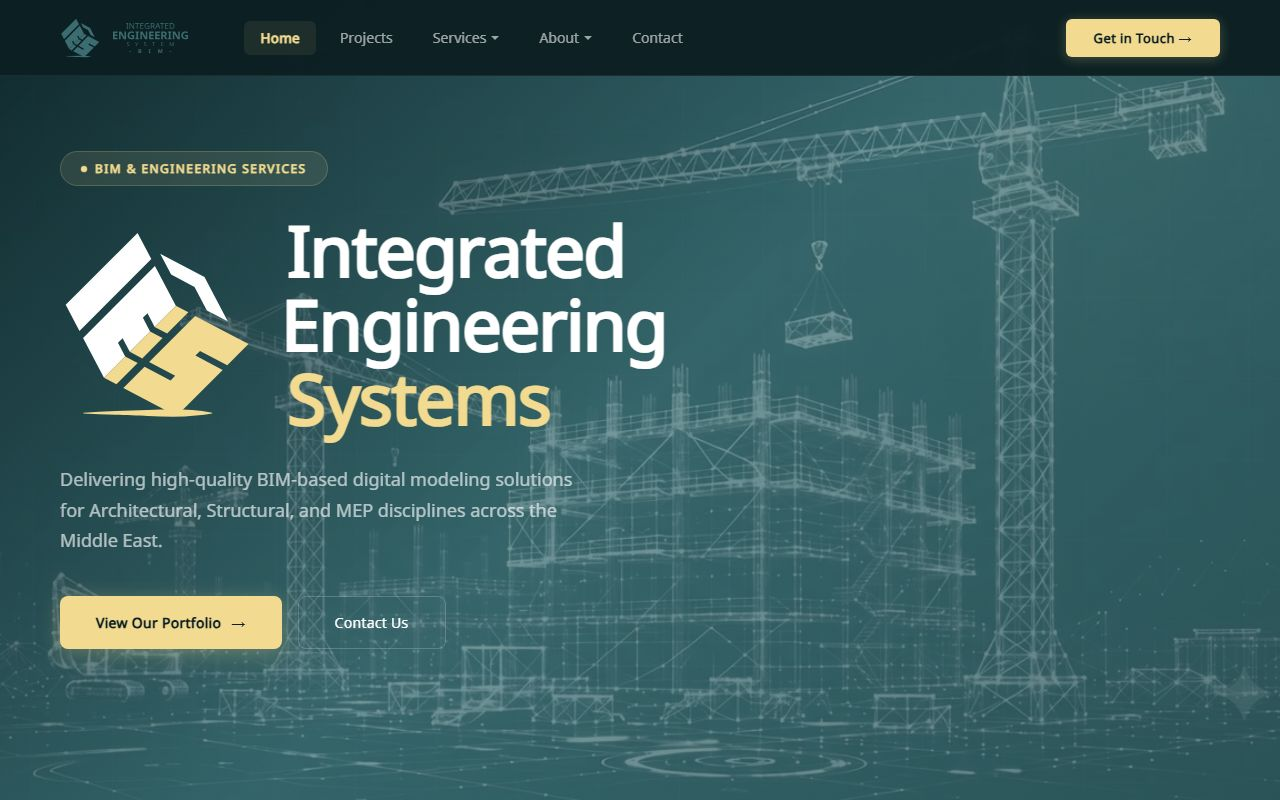
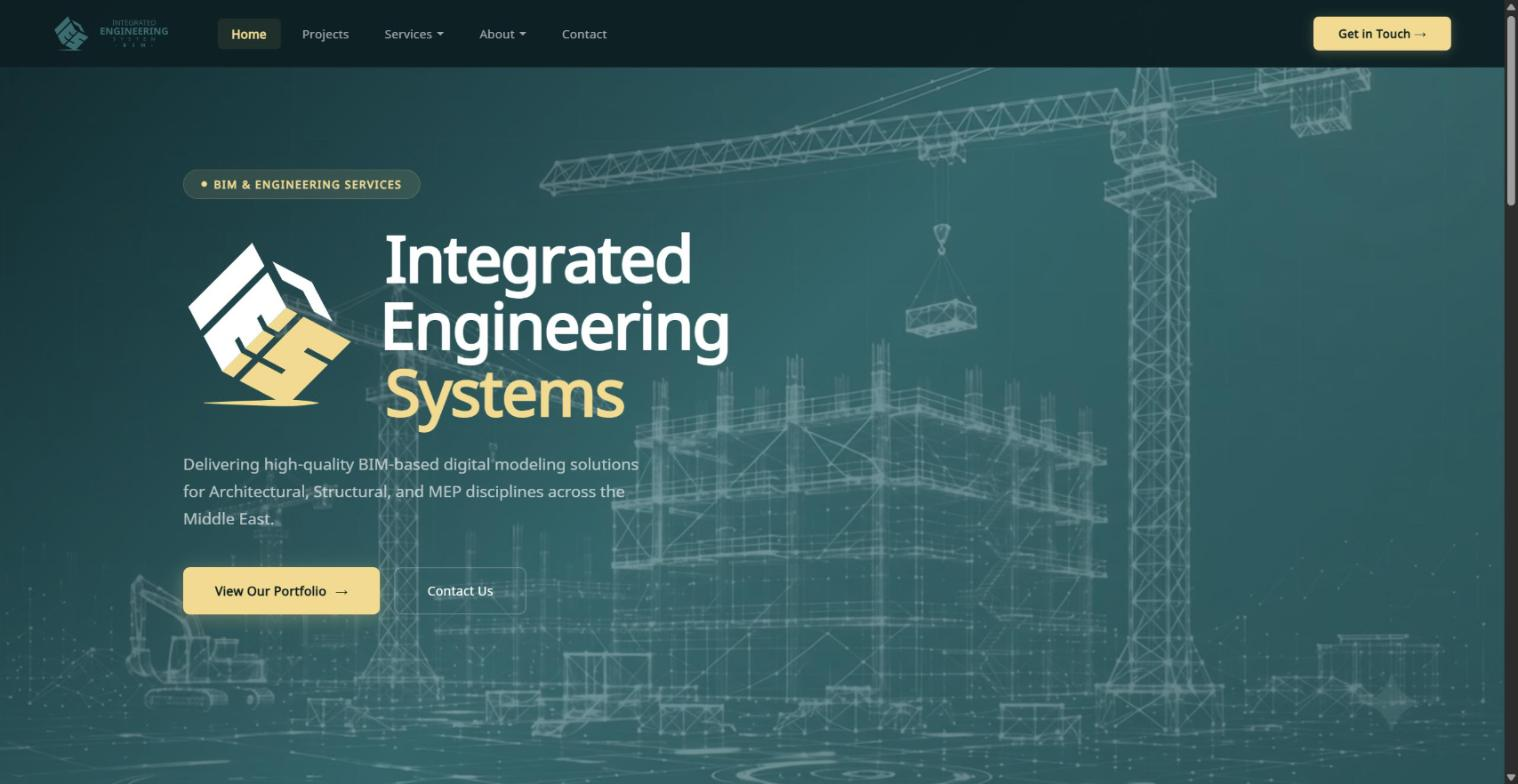
Fix IES-BIM screenshot, trim services to three, recolor reel titles
- Replace mismatched IES-BIM screenshot with the real homepage/nav capture
- Remove Hook & Thumbnail Design card, update services section to three items
- Recolor reel titles to blush white

diff --git a/src/components/sections/Services.tsx b/src/components/sections/Services.tsx
@@ -26,14 +26,14 @@ export function Services() {
             What you can hire me for.
           </h2>
           <p className="mt-[18px] max-w-[56ch] text-dim">
-            Four things I do well, end to end. Pick one or stack them into a
+            Three things I do well, end to end. Pick one or stack them into a
             full content pipeline.
           </p>
         </div>
 
         <div
           data-reveal
-          className="grid gap-px overflow-hidden rounded-[4px] border border-[color:var(--line)] bg-[color:var(--line)] sm:grid-cols-2"
+          className="grid gap-px overflow-hidden rounded-[4px] border border-[color:var(--line)] bg-[color:var(--line)] sm:grid-cols-3"
         >
           {SERVICES.map((s) => (
             <div

diff --git a/src/data.ts b/src/data.ts
@@ -72,7 +72,6 @@ export const SERVICES = [
   { n: "01", label: "Short-Form Editing", note: "Reels · Shorts · TikTok" },
   { n: "02", label: "Motion Graphics & VFX", note: "Titles · Transitions · FX" },
   { n: "03", label: "Portfolio & Web Design", note: "Brand · Layout · Polish" },
-  { n: "04", label: "Hook & Thumbnail Design", note: "Stop-the-scroll first frames" },
 ];
 
 export const JOURNEY = [

diff --git a/src/components/sections/Videos.tsx b/src/components/sections/Videos.tsx
@@ -93,7 +93,7 @@ function VideoCard({ video }: { video: VideoItem }) {
         </div>
         <div
           dir="rtl"
-          className="mt-1.5 font-display text-[1.05rem] font-bold leading-[1.2] text-text"
+          className="mt-1.5 font-display text-[1.05rem] font-bold leading-[1.2] text-[#F5E3DE]"
         >
           {video.title}
         </div>
